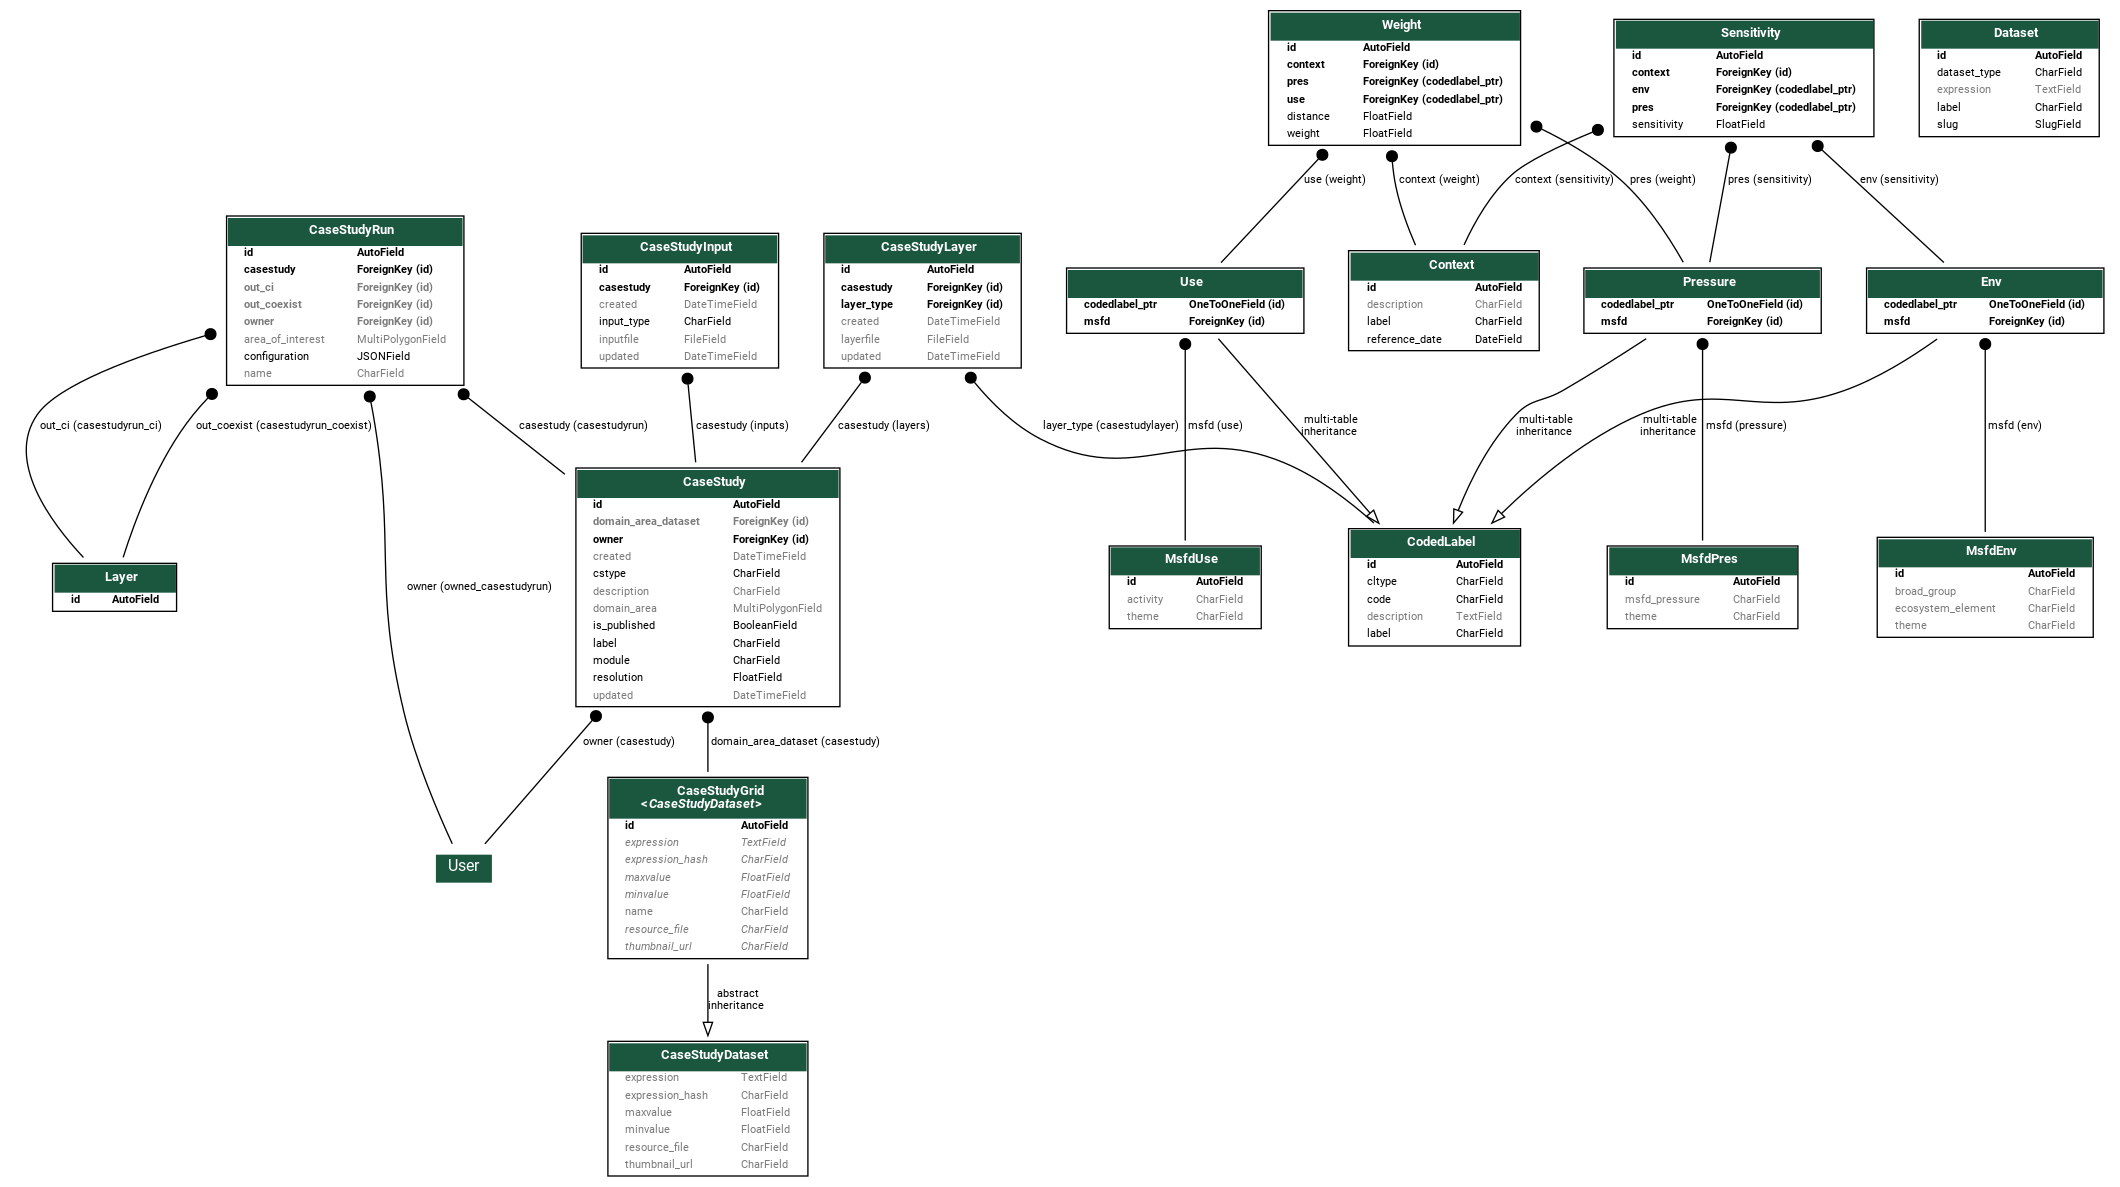
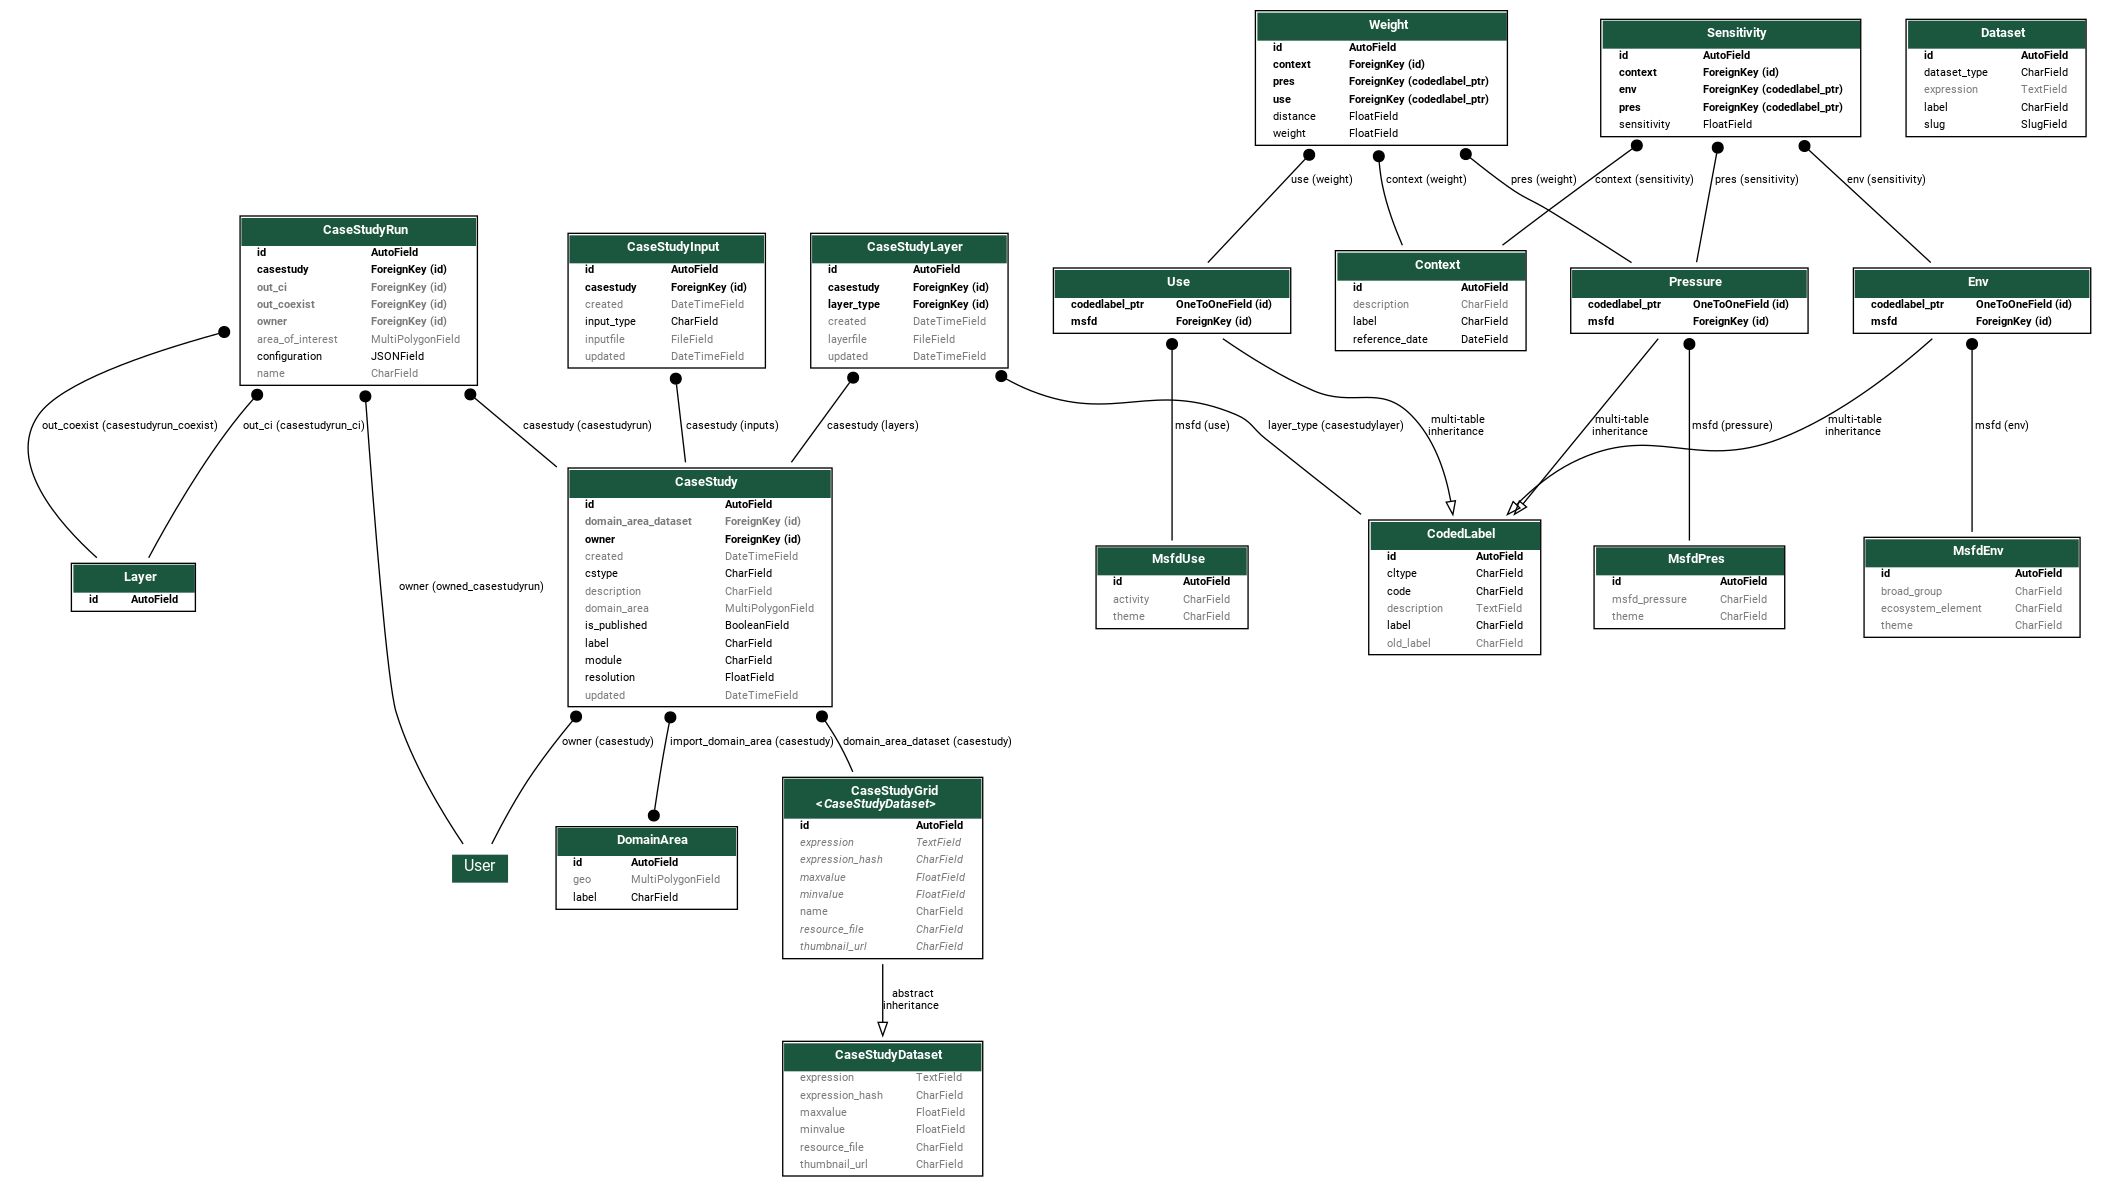
added admin configuration for MSFD models

diff --git a/tools4msp/migrations/0023_auto_20190713_0756.py b/tools4msp/migrations/0023_auto_20190713_0756.py
@@ -1,0 +1,38 @@
+# Generated by Django 2.2.2 on 2019-07-13 07:56
+
+from django.db import migrations, models
+
+
+class Migration(migrations.Migration):
+
+    dependencies = [
+        ('tools4msp', '0022_auto_20190711_1317'),
+    ]
+
+    operations = [
+        migrations.AlterModelOptions(
+            name='env',
+            options={'ordering': ['label'], 'verbose_name': 'Environmental receptor'},
+        ),
+        migrations.AlterModelOptions(
+            name='msfdenv',
+            options={'ordering': ['theme', 'ecosystem_element', 'broad_group'], 'verbose_name': 'MSFD environmental receptor'},
+        ),
+        migrations.AlterModelOptions(
+            name='msfdpres',
+            options={'ordering': ['theme', 'msfd_pressure'], 'verbose_name': 'MSFD pressure'},
+        ),
+        migrations.AlterModelOptions(
+            name='msfduse',
+            options={'ordering': ['theme', 'activity'], 'verbose_name': 'MSFD Activity', 'verbose_name_plural': 'MSFD Activities'},
+        ),
+        migrations.AlterModelOptions(
+            name='weight',
+            options={'verbose_name': 'Pressure weight'},
+        ),
+        migrations.AlterField(
+            model_name='casestudy',
+            name='import_domain_area',
+            field=models.ManyToManyField(blank=True, to='tools4msp.DomainArea'),
+        ),
+    ]
